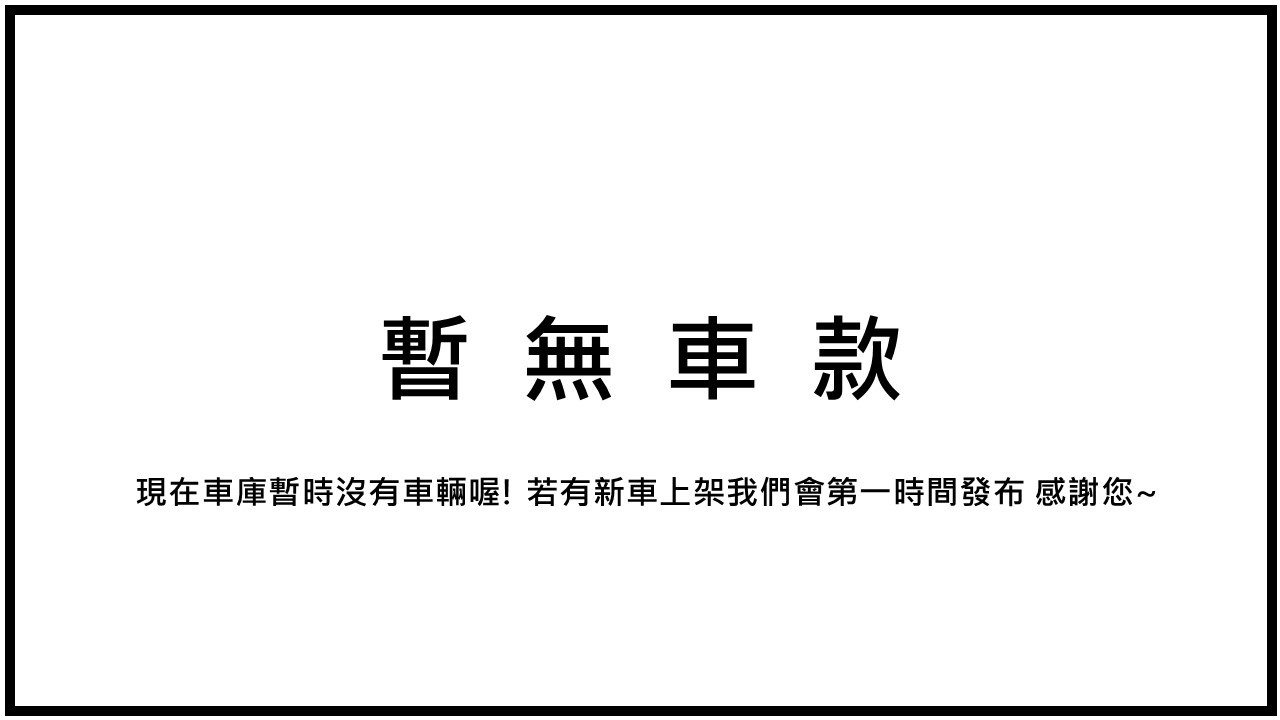
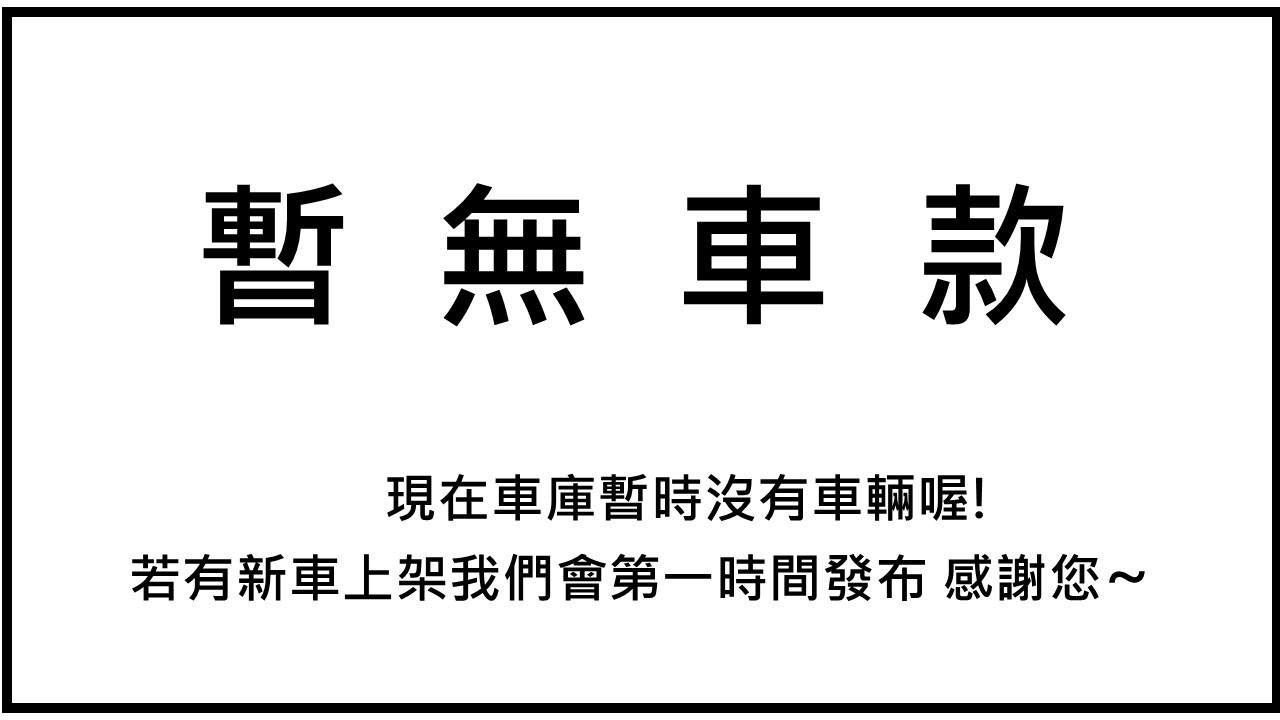
first update

diff --git a/buy_and_sell.html b/buy_and_sell.html
@@ -243,7 +243,7 @@
 									<span class="text-black text-capitalize mr-3"><i class="icofont-calendar mr-1"></i>里程 XXX Km</span>
 								</div> 
 				
-								<h2 class="mt-3 mb-3"><a href="car_trade/car1.html">暫無協尋車輛</a></h2>
+								<h2 class="mt-3 mb-3"><a href="car_trade/car1.html">暫無協尋車款</a></h2>
 								
 								<p class="mb-4 buy-and-sell">現在暫時沒有協助尋找車輛喔! 若有新車上架我們會第一時間發布 感謝您~</p>
 				
